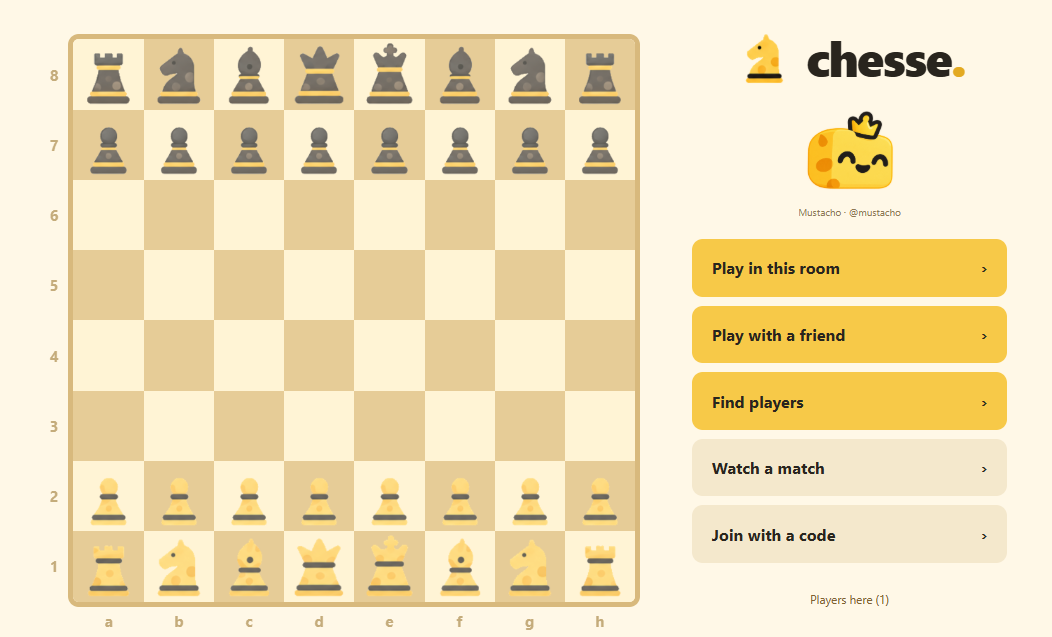
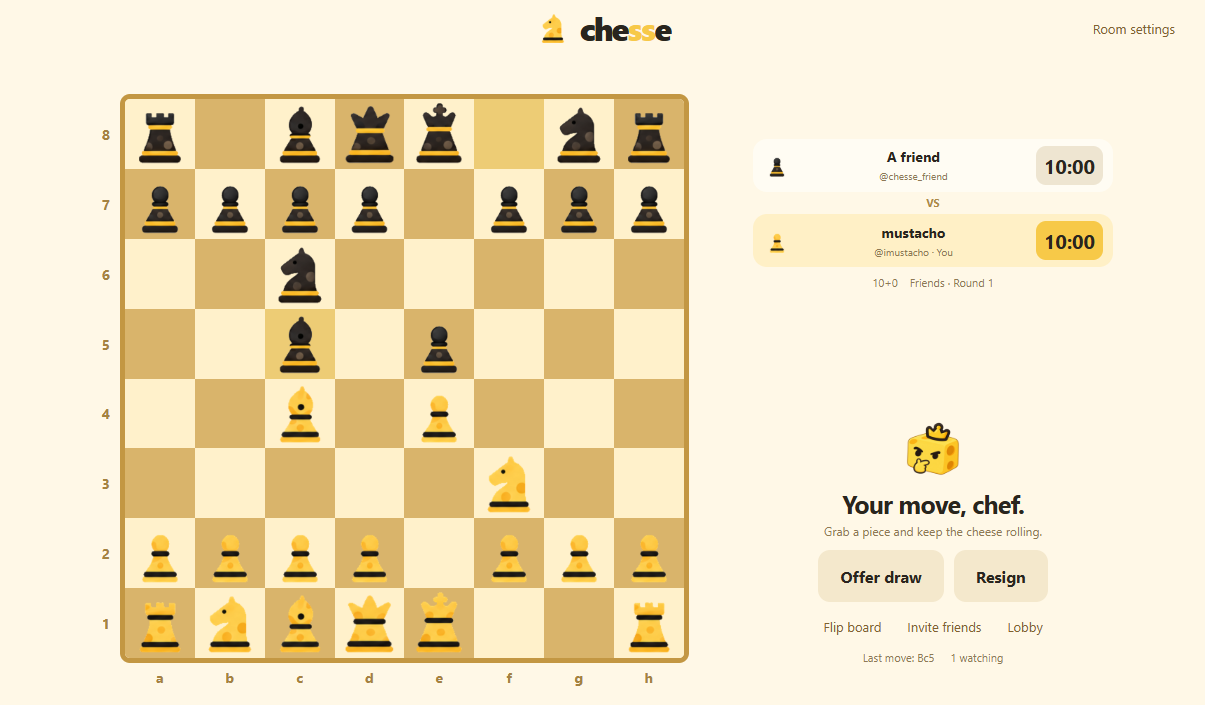
Refresh project gallery images

diff --git a/src/app/projects/[id]/ProjectDetailClient.tsx b/src/app/projects/[id]/ProjectDetailClient.tsx
@@ -274,7 +274,7 @@ export default function ProjectDetailClient({ project }: ProjectDetailClientProp
                                                 <img
                                                     src={mediaSrc}
                                                     alt={`${project.title} preview ${idx + 1}`}
-                                                    className={`w-full h-full ${project.id === "chesse" ? "object-contain p-2" : "object-cover"} transition-transform duration-300 group-hover:scale-105`}
+                                                    className="w-full h-full object-contain p-2 transition-transform duration-300 group-hover:scale-105"
                                                 />
                                             )}
                                             <div className="absolute inset-0 bg-black/40 opacity-0 group-hover:opacity-100 transition-opacity flex items-center justify-center text-white text-sm font-semibold pointer-events-none">
